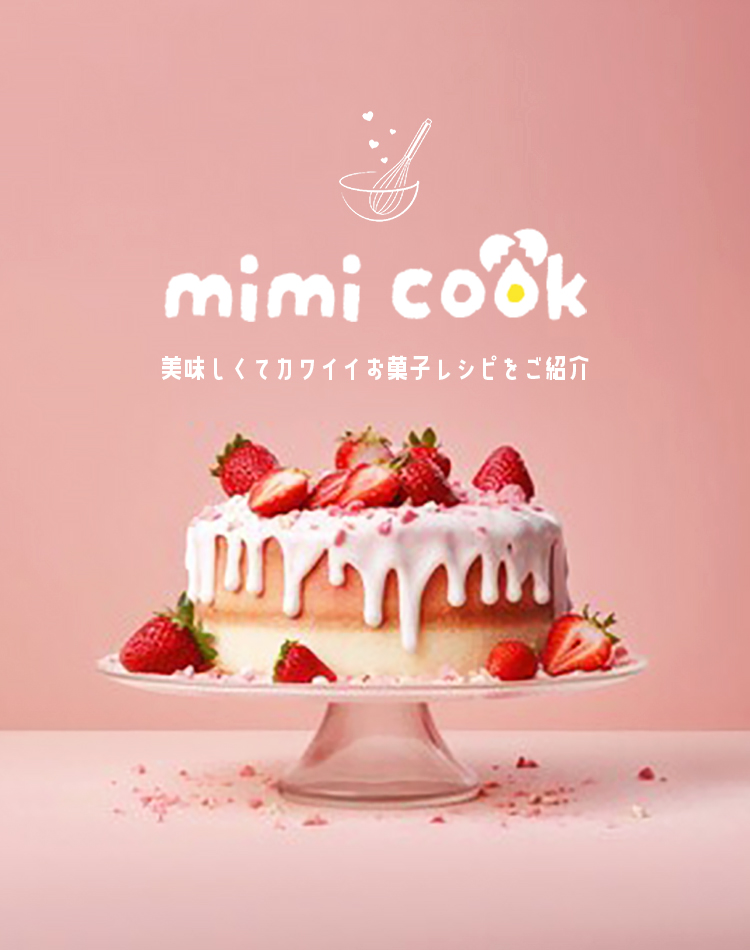
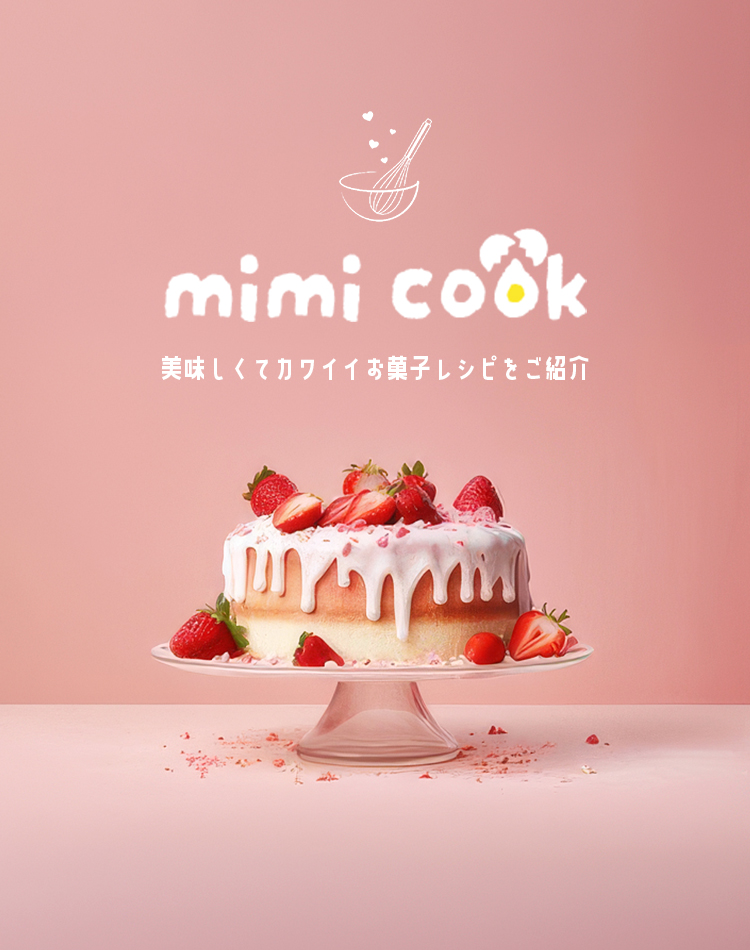
SP用ヘッダー画像に変更

Changed region(s): [[0.0, 0.4274, 1.0, 0.9768]]

diff --git a/style.css b/style.css
@@ -516,12 +516,25 @@ font-size: 1rem;
 
 @media (max-width: 600px){
 	header{
+		height: 240px;
 		overflow: hidden;
 	}
 	header img{
-		width: 100%;
-		display: block;
+		width: 120%;
+		max-width: none;
+		height: 100%;
+		object-fit: cover;
+		object-position: center;
+		margin-left: -10%;
 	}
+	.top-header{
+		width: 100%;
+		height: auto;
+		max-width: 100%;
+		object-fit: contain;
+		margin-left: 0;
+	}
+
 	.recipe-list{
 	display:grid;
 	grid-template-columns: 1fr;

diff --git a/html/about.html b/html/about.html
@@ -14,10 +14,7 @@
 		<header>
 			<h1 class="visually-hidden">mimi cook</h1>
 			<a href="../index.html">
-			 	<picture>
-					<source media="(max-width: 600px)" srcset="../image/fv_mimi_cook_SP.jpg">
-			 		<img src="../image/fv_mimi_cook2.jpg" alt="mimi cook 美味しくてカワイイお菓子レシピをご紹介">
-				</picture>
+			 	<img src="../image/fv_mimi_cook2.jpg" alt="mimi cook 美味しくてカワイイお菓子レシピをご紹介">
 			</a>
 		</header>
 		<!--メイン+サイド-->

diff --git a/html/chocolate.html b/html/chocolate.html
@@ -15,10 +15,7 @@
 		<header>
 			<h1 class="visually-hidden">mimi cook</h1>
 			<a href="../index.html">
-			 	<picture>
-					<source media="(max-width: 600px)" srcset="../image/fv_mimi_cook_SP.jpg">
-			 		<img src="../image/fv_mimi_cook2.jpg" alt="mimi cook 美味しくてカワイイお菓子レシピをご紹介">
-				</picture>
+			 	<img src="../image/fv_mimi_cook2.jpg" alt="mimi cook 美味しくてカワイイお菓子レシピをご紹介">
 			</a>
 		</header>
 

diff --git a/html/cookie.html b/html/cookie.html
@@ -15,10 +15,7 @@
 		<header>
 			<h1 class="visually-hidden">mimi cook</h1>
 			<a href="../index.html">
-			 	<picture>
-					<source media="(max-width: 600px)" srcset="../image/fv_mimi_cook_SP.jpg">
-			 		<img src="../image/fv_mimi_cook2.jpg" alt="mimi cook 美味しくてカワイイお菓子レシピをご紹介">
-				</picture>
+			 	<img src="../image/fv_mimi_cook2.jpg" alt="mimi cook 美味しくてカワイイお菓子レシピをご紹介">
 			</a>
 		</header>
 

diff --git a/html/fruitsjelly.html b/html/fruitsjelly.html
@@ -15,10 +15,7 @@
 		<header>
 			<h1 class="visually-hidden">mimi cook</h1>
 			<a href="../index.html">
-			 	<picture>
-					<source media="(max-width: 600px)" srcset="../image/fv_mimi_cook_SP.jpg">
-			 		<img src="../image/fv_mimi_cook2.jpg" alt="mimi cook 美味しくてカワイイお菓子レシピをご紹介">
-				</picture>
+			 	<img src="../image/fv_mimi_cook2.jpg" alt="mimi cook 美味しくてカワイイお菓子レシピをご紹介">
 			</a>
 		</header>
 

diff --git a/html/profile.html b/html/profile.html
@@ -14,10 +14,7 @@
 		<header>
 			<h1 class="visually-hidden">mimi cook</h1>
 			<a href="../index.html">
-			 	<picture>
-					<source media="(max-width: 600px)" srcset="../image/fv_mimi_cook_SP.jpg">
-			 		<img src="../image/fv_mimi_cook2.jpg" alt="mimi cook 美味しくてカワイイお菓子レシピをご紹介">
-				</picture>
+			 	<img src="../image/fv_mimi_cook2.jpg" alt="mimi cook 美味しくてカワイイお菓子レシピをご紹介">
 			</a>
 		</header>
 		<!--メイン+サイド-->

diff --git a/html/pudding.html b/html/pudding.html
@@ -15,10 +15,7 @@
 		<header>
 			<h1 class="visually-hidden">mimi cook</h1>
 			<a href="../index.html">
-			 	<picture>
-					<source media="(max-width: 600px)" srcset="../image/fv_mimi_cook_SP.jpg">
-			 		<img src="../image/fv_mimi_cook2.jpg" alt="mimi cook 美味しくてカワイイお菓子レシピをご紹介">
-				</picture>
+			 	<img src="../image/fv_mimi_cook2.jpg" alt="mimi cook 美味しくてカワイイお菓子レシピをご紹介">
 			</a>
 		</header>
 

diff --git a/html/recipe.html b/html/recipe.html
@@ -15,10 +15,7 @@
 		<header>
 			<h1 class="visually-hidden">mimi cook</h1>
 			<a href="../index.html">
-			 	<picture>
-					<source media="(max-width: 600px)" srcset="../image/fv_mimi_cook_SP.jpg">
-			 		<img src="../image/fv_mimi_cook2.jpg" alt="mimi cook 美味しくてカワイイお菓子レシピをご紹介">
-				</picture>
+			 	<img src="../image/fv_mimi_cook2.jpg" alt="mimi cook 美味しくてカワイイお菓子レシピをご紹介">
 			</a>
 		</header>
 

diff --git a/index.html b/index.html
@@ -12,7 +12,7 @@
 <body>
 	<div class="wrapper">
 		<!--ヘッダー-->
-		<header>
+		<header class="top-header">
 			<h1 class="visually-hidden">mimi cook</h1>
 			<a href="index.html">
 				<picture>
@@ -20,7 +20,7 @@
 			 		<img src="image/fv_mimi_cook2.jpg" alt="mimi cook 美味しくてカワイイお菓子レシピをご紹介">
 				</picture>
 			</a>
-		</header>
+		</header> 
 
 		<!--メイン-->
 		<main>